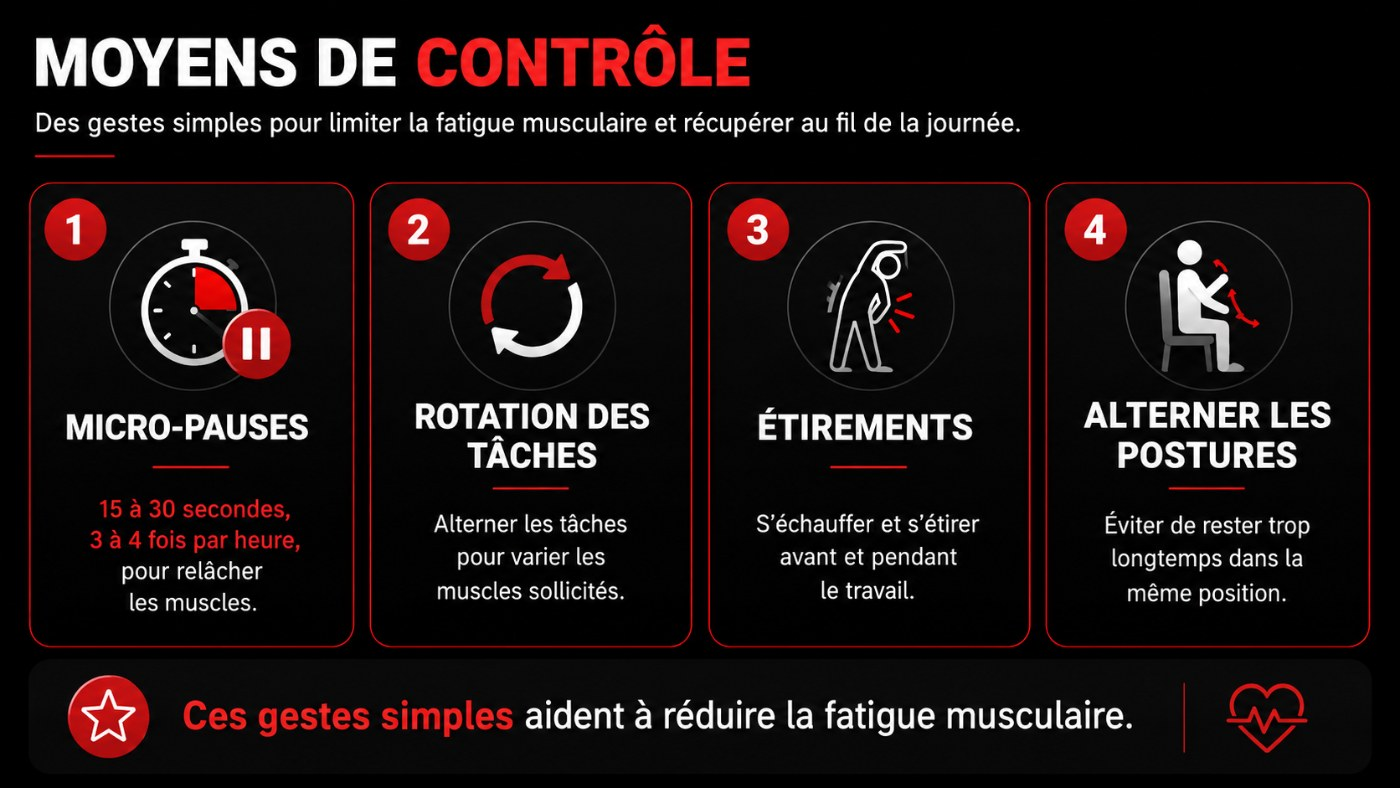
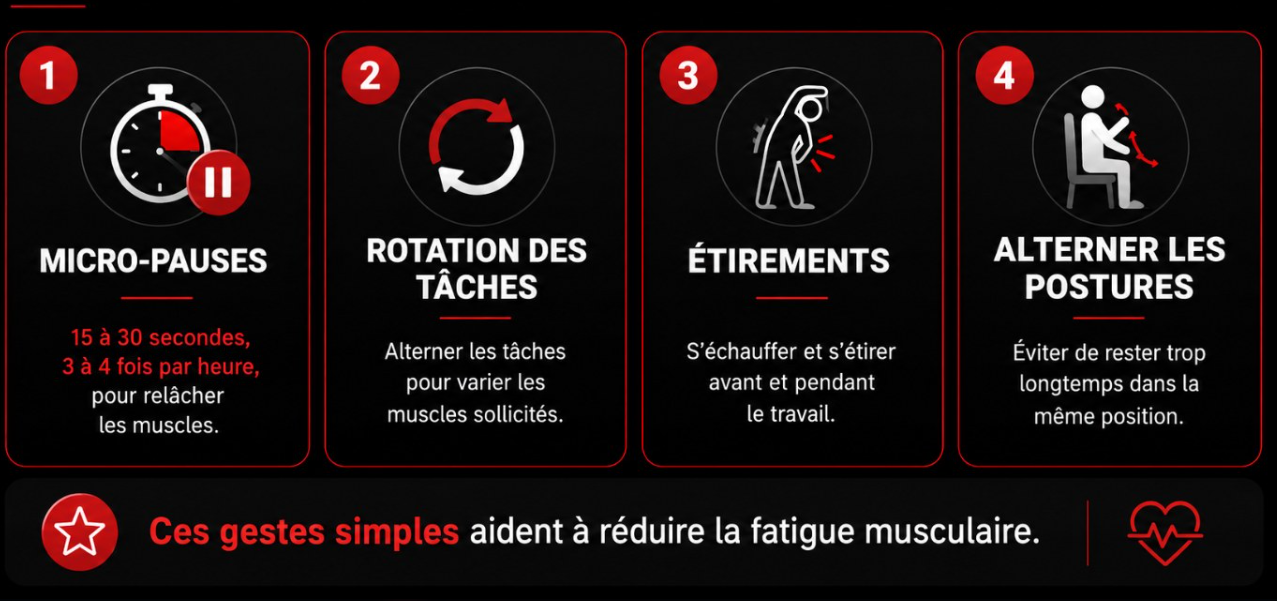
Moyens de contrôle : nouvelle infographie sans titre (remplace l'ancienne) + v1.51
L'ancienne moyens_controle.jpg répétait le titre du <h3> ; remplacée par la version fournie sans titre. S'applique partout (base de connaissances + Formation guidée, même fichier). Bump v1.50 → v1.51.

Claude-Session: https://claude.ai/code/session_01RkNdBPPT68Wo1Cjarq7wUD

diff --git a/formation-2.en.html b/formation-2.en.html
@@ -425,7 +425,7 @@ html.tms-loading{overflow:hidden!important}
           <span>Updated: June 2026</span>
           <span>Awareness document. Does not replace medical advice.</span>
           <button class="viewtoggle" id="viewToggle" hidden><svg width="13" height="13" viewBox="0 0 24 24" fill="none" stroke="currentColor" stroke-width="2.2" stroke-linecap="round" stroke-linejoin="round" aria-hidden="true"><rect x="2" y="3" width="20" height="14" rx="2"/><line x1="8" y1="21" x2="16" y2="21"/><line x1="12" y1="17" x2="12" y2="21"/></svg> <span id="viewToggleLbl">Desktop version</span></button>
-          <span class="foot-ver" id="footVer" title="Site version">v1.50</span>
+          <span class="foot-ver" id="footVer" title="Site version">v1.51</span>
         </div>
       </div>
     </footer>

diff --git a/formation-2.html b/formation-2.html
@@ -329,7 +329,7 @@ html.tms-loading{overflow:hidden!important}
           <span>Mise à jour : juin 2026</span>
           <span>Document de sensibilisation. Ne remplace pas un avis médical.</span>
           <button class="viewtoggle" id="viewToggle" hidden><svg width="13" height="13" viewBox="0 0 24 24" fill="none" stroke="currentColor" stroke-width="2.2" stroke-linecap="round" stroke-linejoin="round" aria-hidden="true"><rect x="2" y="3" width="20" height="14" rx="2"/><line x1="8" y1="21" x2="16" y2="21"/><line x1="12" y1="17" x2="12" y2="21"/></svg> <span id="viewToggleLbl">Version ordinateur</span></button>
-          <span class="foot-ver" id="footVer" title="Version du site">v1.50</span>
+          <span class="foot-ver" id="footVer" title="Version du site">v1.51</span>
         </div>
       </div>
     </footer>

diff --git a/formation-3.en.html b/formation-3.en.html
@@ -179,7 +179,7 @@ html.tms-loading{overflow:hidden!important}
           <span>Updated: June 2026</span>
           <span>Awareness document. Does not replace medical advice.</span>
           <button class="viewtoggle" id="viewToggle" hidden><svg width="13" height="13" viewBox="0 0 24 24" fill="none" stroke="currentColor" stroke-width="2.2" stroke-linecap="round" stroke-linejoin="round" aria-hidden="true"><rect x="2" y="3" width="20" height="14" rx="2"/><line x1="8" y1="21" x2="16" y2="21"/><line x1="12" y1="17" x2="12" y2="21"/></svg> <span id="viewToggleLbl">Desktop version</span></button>
-          <span class="foot-ver" id="footVer" title="Site version">v1.50</span>
+          <span class="foot-ver" id="footVer" title="Site version">v1.51</span>
         </div>
       </div>
     </footer>

diff --git a/formation-3.html b/formation-3.html
@@ -179,7 +179,7 @@ html.tms-loading{overflow:hidden!important}
           <span>Mise à jour : juin 2026</span>
           <span>Document de sensibilisation. Ne remplace pas un avis médical.</span>
           <button class="viewtoggle" id="viewToggle" hidden><svg width="13" height="13" viewBox="0 0 24 24" fill="none" stroke="currentColor" stroke-width="2.2" stroke-linecap="round" stroke-linejoin="round" aria-hidden="true"><rect x="2" y="3" width="20" height="14" rx="2"/><line x1="8" y1="21" x2="16" y2="21"/><line x1="12" y1="17" x2="12" y2="21"/></svg> <span id="viewToggleLbl">Version ordinateur</span></button>
-          <span class="foot-ver" id="footVer" title="Version du site">v1.50</span>
+          <span class="foot-ver" id="footVer" title="Version du site">v1.51</span>
         </div>
       </div>
     </footer>

diff --git a/formation-4.en.html b/formation-4.en.html
@@ -165,7 +165,7 @@ html.tms-loading{overflow:hidden!important}
           <span>Updated: June 2026</span>
           <span>Awareness document. Does not replace medical advice.</span>
           <button class="viewtoggle" id="viewToggle" hidden><svg width="13" height="13" viewBox="0 0 24 24" fill="none" stroke="currentColor" stroke-width="2.2" stroke-linecap="round" stroke-linejoin="round" aria-hidden="true"><rect x="2" y="3" width="20" height="14" rx="2"/><line x1="8" y1="21" x2="16" y2="21"/><line x1="12" y1="17" x2="12" y2="21"/></svg> <span id="viewToggleLbl">Desktop version</span></button>
-          <span class="foot-ver" id="footVer" title="Site version">v1.50</span>
+          <span class="foot-ver" id="footVer" title="Site version">v1.51</span>
         </div>
       </div>
     </footer>

diff --git a/formation-4.html b/formation-4.html
@@ -165,7 +165,7 @@ html.tms-loading{overflow:hidden!important}
           <span>Mise à jour : juin 2026</span>
           <span>Document de sensibilisation. Ne remplace pas un avis médical.</span>
           <button class="viewtoggle" id="viewToggle" hidden><svg width="13" height="13" viewBox="0 0 24 24" fill="none" stroke="currentColor" stroke-width="2.2" stroke-linecap="round" stroke-linejoin="round" aria-hidden="true"><rect x="2" y="3" width="20" height="14" rx="2"/><line x1="8" y1="21" x2="16" y2="21"/><line x1="12" y1="17" x2="12" y2="21"/></svg> <span id="viewToggleLbl">Version ordinateur</span></button>
-          <span class="foot-ver" id="footVer" title="Version du site">v1.50</span>
+          <span class="foot-ver" id="footVer" title="Version du site">v1.51</span>
         </div>
       </div>
     </footer>

diff --git a/formation-5.en.html b/formation-5.en.html
@@ -257,7 +257,7 @@ html.tms-loading{overflow:hidden!important}
           <span>Updated: June 2026</span>
           <span>Awareness document. Does not replace medical advice.</span>
           <button class="viewtoggle" id="viewToggle" hidden><svg width="13" height="13" viewBox="0 0 24 24" fill="none" stroke="currentColor" stroke-width="2.2" stroke-linecap="round" stroke-linejoin="round" aria-hidden="true"><rect x="2" y="3" width="20" height="14" rx="2"/><line x1="8" y1="21" x2="16" y2="21"/><line x1="12" y1="17" x2="12" y2="21"/></svg> <span id="viewToggleLbl">Desktop version</span></button>
-          <span class="foot-ver" id="footVer" title="Site version">v1.50</span>
+          <span class="foot-ver" id="footVer" title="Site version">v1.51</span>
         </div>
       </div>
     </footer>

diff --git a/formation-5.html b/formation-5.html
@@ -257,7 +257,7 @@ html.tms-loading{overflow:hidden!important}
           <span>Mise à jour : juin 2026</span>
           <span>Document de sensibilisation. Ne remplace pas un avis médical.</span>
           <button class="viewtoggle" id="viewToggle" hidden><svg width="13" height="13" viewBox="0 0 24 24" fill="none" stroke="currentColor" stroke-width="2.2" stroke-linecap="round" stroke-linejoin="round" aria-hidden="true"><rect x="2" y="3" width="20" height="14" rx="2"/><line x1="8" y1="21" x2="16" y2="21"/><line x1="12" y1="17" x2="12" y2="21"/></svg> <span id="viewToggleLbl">Version ordinateur</span></button>
-          <span class="foot-ver" id="footVer" title="Version du site">v1.50</span>
+          <span class="foot-ver" id="footVer" title="Version du site">v1.51</span>
         </div>
       </div>
     </footer>

diff --git a/formation-guidee.html b/formation-guidee.html
@@ -65,7 +65,7 @@
 
 <div id="app"></div>
 
-<span class="foot-ver" id="footVer" title="Version du site" style="position:fixed;right:12px;bottom:10px;z-index:50;font-family:'Barlow Condensed',sans-serif;font-weight:700;letter-spacing:.04em;font-size:.72rem;color:#475569;background:rgba(13,19,32,.72);border:1px solid #1e293b;border-radius:999px;padding:3px 9px;-webkit-backdrop-filter:blur(6px);backdrop-filter:blur(6px)">v1.50</span>
+<span class="foot-ver" id="footVer" title="Version du site" style="position:fixed;right:12px;bottom:10px;z-index:50;font-family:'Barlow Condensed',sans-serif;font-weight:700;letter-spacing:.04em;font-size:.72rem;color:#475569;background:rgba(13,19,32,.72);border:1px solid #1e293b;border-radius:999px;padding:3px 9px;-webkit-backdrop-filter:blur(6px);backdrop-filter:blur(6px)">v1.51</span>
 
 <script src="formation-guidee.js" defer></script>
 </body>

diff --git a/formation.en.html b/formation.en.html
@@ -548,7 +548,7 @@ html.tms-loading{overflow:hidden!important}
           <span>Updated: June 2026</span>
           <span>Awareness document. Does not replace medical advice.</span>
           <button class="viewtoggle" id="viewToggle" hidden><svg width="13" height="13" viewBox="0 0 24 24" fill="none" stroke="currentColor" stroke-width="2.2" stroke-linecap="round" stroke-linejoin="round" aria-hidden="true"><rect x="2" y="3" width="20" height="14" rx="2"/><line x1="8" y1="21" x2="16" y2="21"/><line x1="12" y1="17" x2="12" y2="21"/></svg> <span id="viewToggleLbl">Desktop version</span></button>
-          <span class="foot-ver" id="footVer" title="Site version">v1.50</span>
+          <span class="foot-ver" id="footVer" title="Site version">v1.51</span>
         </div>
       </div>
     </footer>

diff --git a/formation.html b/formation.html
@@ -572,7 +572,7 @@ html.tms-loading{overflow:hidden!important}
           <span>Mise à jour : juin 2026</span>
           <span>Document de sensibilisation. Ne remplace pas un avis médical.</span>
           <button class="viewtoggle" id="viewToggle" hidden><svg width="13" height="13" viewBox="0 0 24 24" fill="none" stroke="currentColor" stroke-width="2.2" stroke-linecap="round" stroke-linejoin="round" aria-hidden="true"><rect x="2" y="3" width="20" height="14" rx="2"/><line x1="8" y1="21" x2="16" y2="21"/><line x1="12" y1="17" x2="12" y2="21"/></svg> <span id="viewToggleLbl">Version ordinateur</span></button>
-          <span class="foot-ver" id="footVer" title="Version du site">v1.50</span>
+          <span class="foot-ver" id="footVer" title="Version du site">v1.51</span>
         </div>
       </div>
     </footer>

diff --git a/index.en.html b/index.en.html
@@ -549,7 +549,7 @@ html.tms-loading{overflow:hidden!important}
           <span>Updated: June 2026</span>
           <span>Awareness document. Does not replace medical advice.</span>
           <button class="viewtoggle" id="viewToggle" hidden><svg width="13" height="13" viewBox="0 0 24 24" fill="none" stroke="currentColor" stroke-width="2.2" stroke-linecap="round" stroke-linejoin="round" aria-hidden="true"><rect x="2" y="3" width="20" height="14" rx="2"/><line x1="8" y1="21" x2="16" y2="21"/><line x1="12" y1="17" x2="12" y2="21"/></svg> <span id="viewToggleLbl">Desktop version</span></button>
-          <span class="foot-ver" id="footVer" title="Site version">v1.50</span>
+          <span class="foot-ver" id="footVer" title="Site version">v1.51</span>
         </div>
       </div>
     </footer>